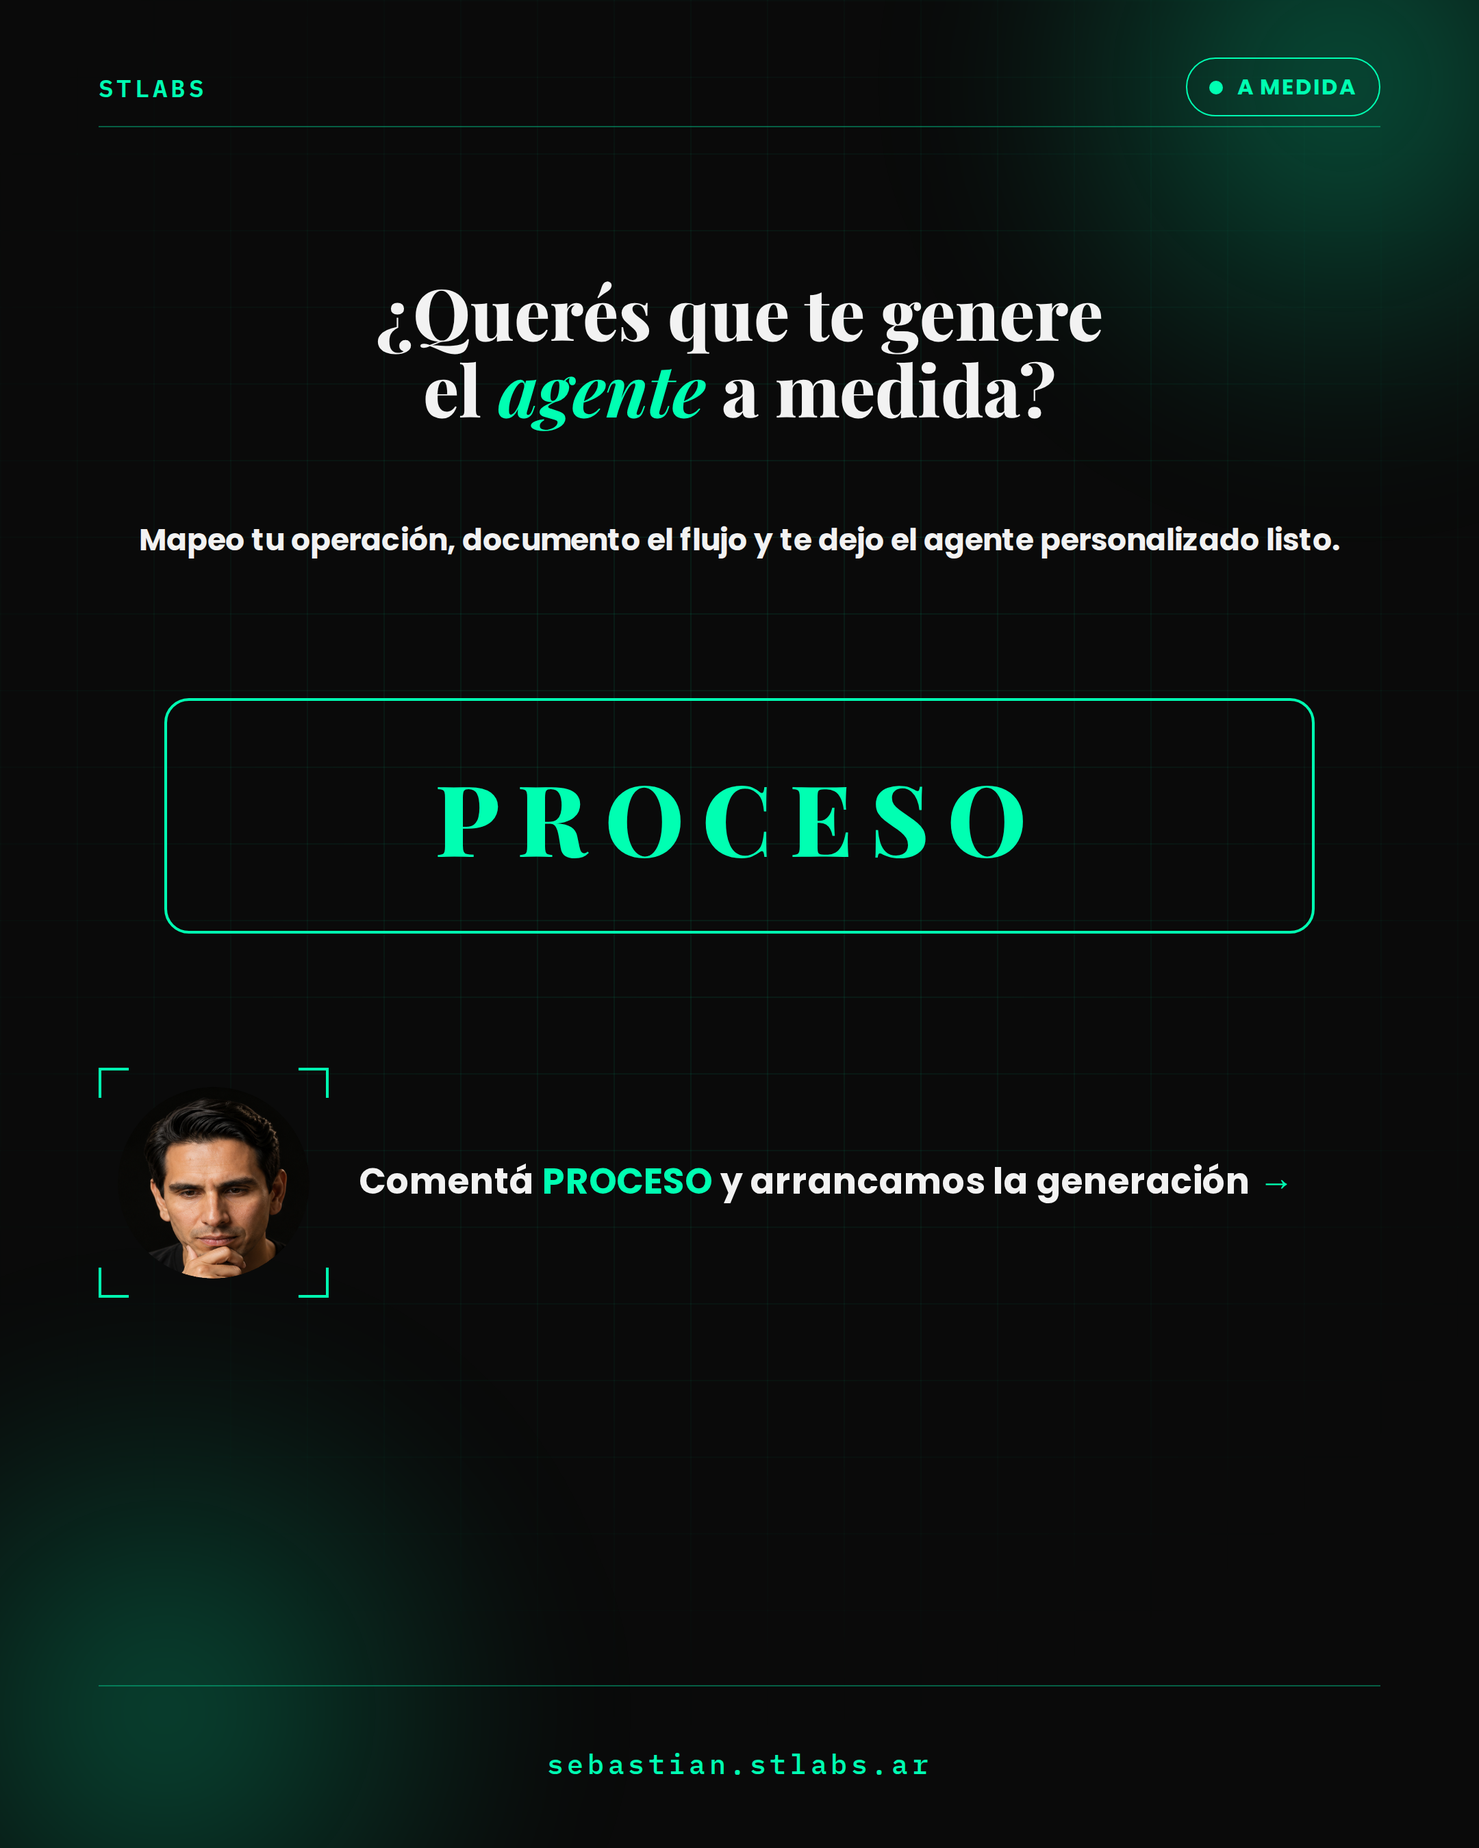
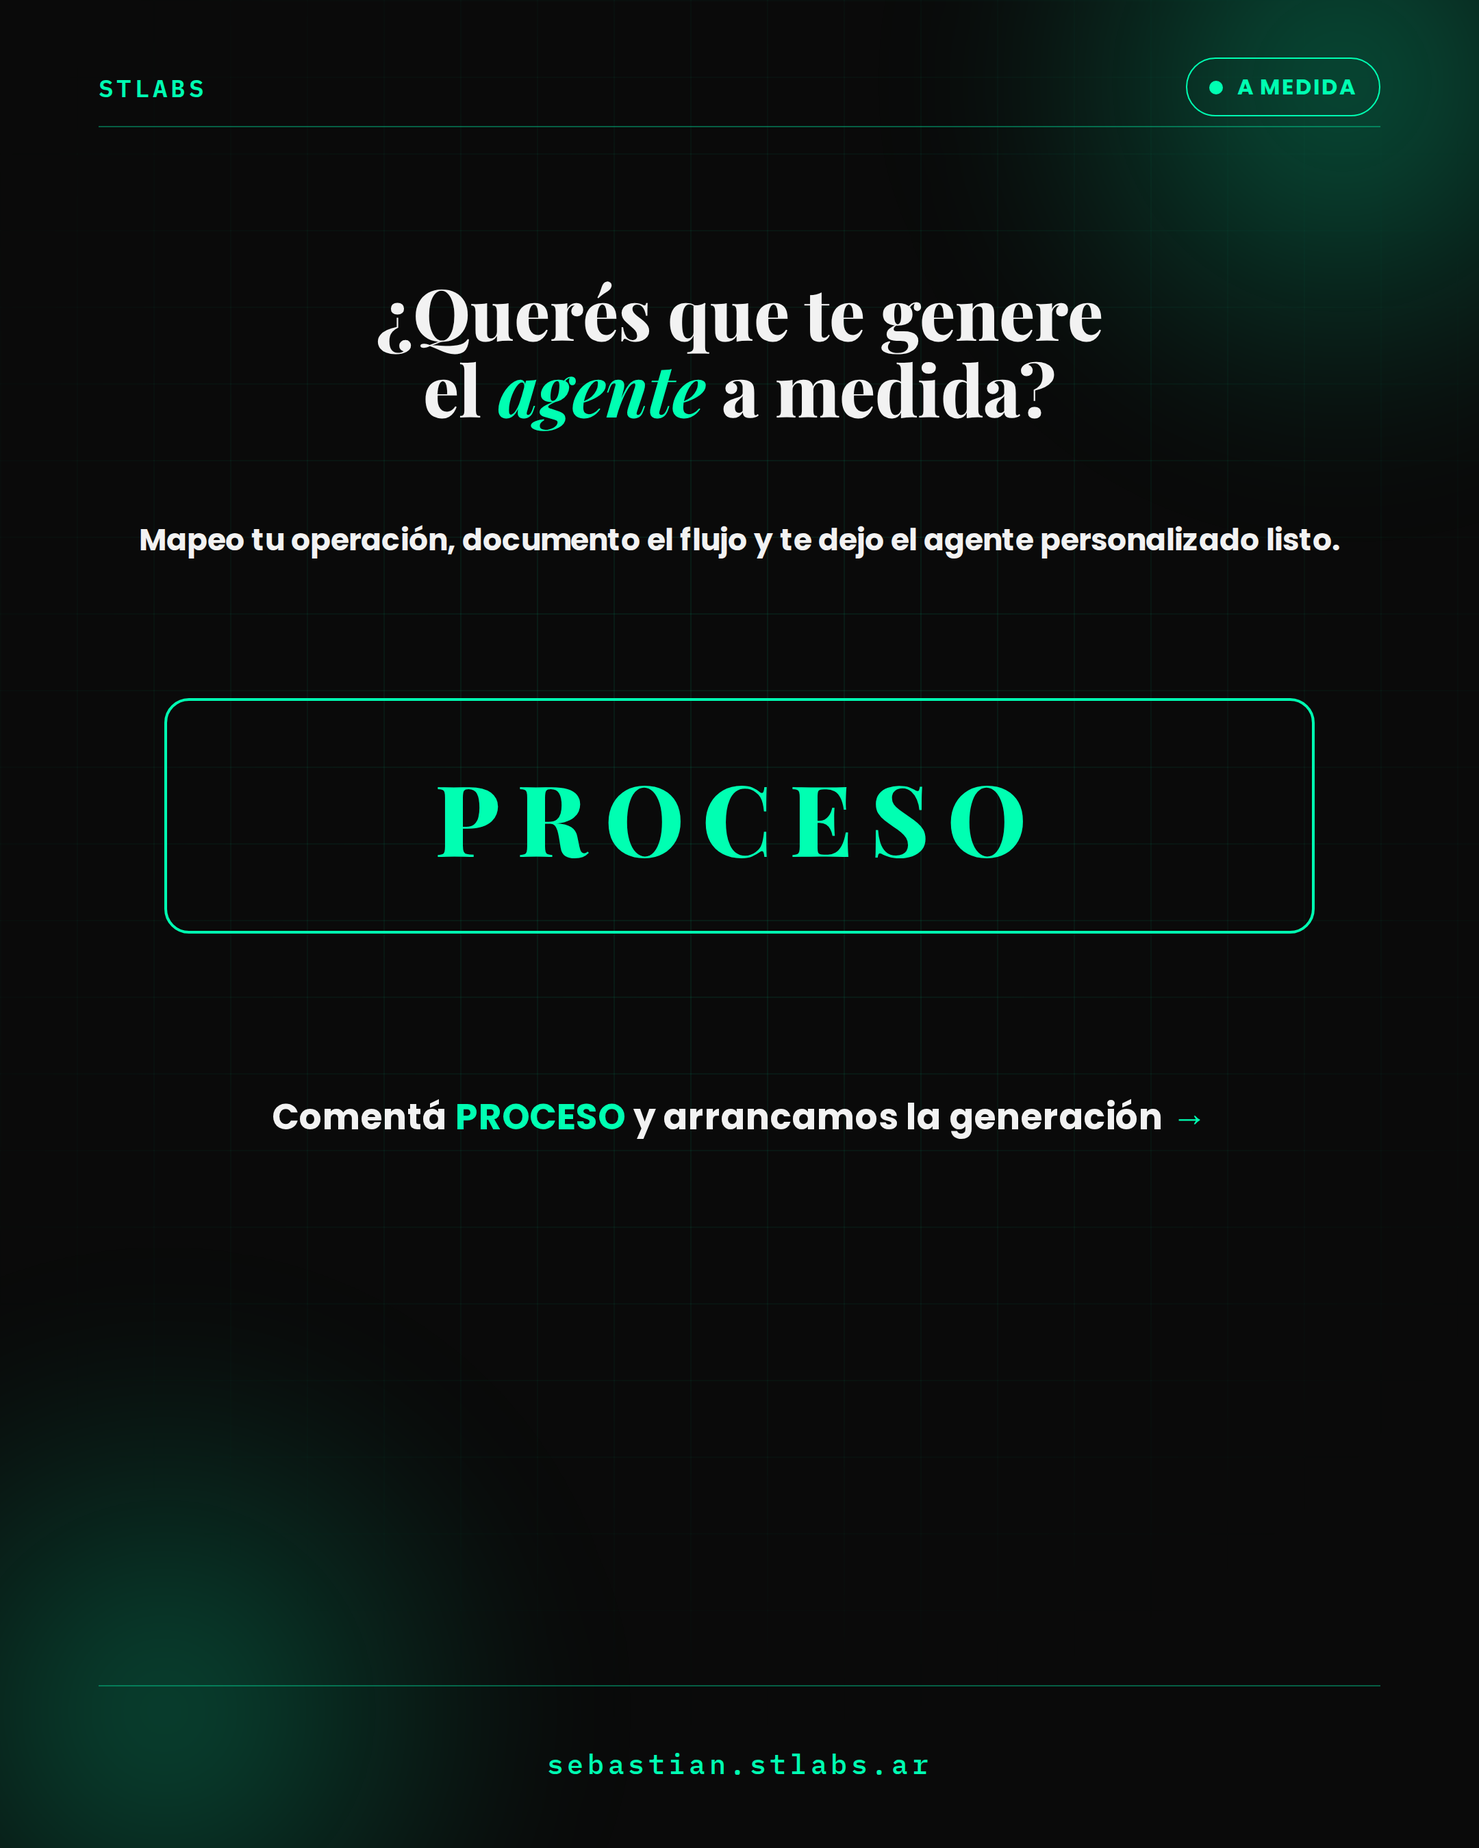
Quitar la foto de Sebastián en la última slide
El cierre queda solo con el CTA centrado: Comentá PROCESO.

Changed region(s): [[0.0931, 0.5911, 0.8375, 0.7156]]

diff --git a/resultados/2026-08-18-nueva-forma-agentes/carrusel.html b/resultados/2026-08-18-nueva-forma-agentes/carrusel.html
@@ -229,14 +229,13 @@ html, body { background:#000; }
   letter-spacing:.18em; color:#00FFB2;
 }
 .bottom-row {
-  position:absolute; left:72px; right:72px; top:780px; z-index:4;
-  display:flex; align-items:center; gap:22px;
+  position:absolute; left:72px; right:72px; top:800px; z-index:4;
+  display:flex; align-items:center; justify-content:center;
 }
-.avatar-wrap { position:relative; width:168px; height:168px; flex-shrink:0; }
-.avatar-wrap img { width:140px; height:140px; border-radius:50%; object-fit:cover; position:absolute; top:14px; left:14px; }
 .send {
   font-family:'Poppins',sans-serif; font-weight:700; font-size:26px; color:#F2F2F2; line-height:1.3;
+  text-align:center;
 }
 .send em { font-style:normal; color:#00FFB2; }
 </style></head>
-<body><div class="sheet"><section class="slide" data-id="01"><div class="tex"></div><div class="glow glow-tr"></div><div class="glow glow-bl"></div><div class="hline top"></div><div class="brand">STLabs</div><div class="kicker">01 / 05</div><div class="pill"><i></i>A medida</div><div class="firma">sebastian.stlabs.ar</div><div class="hero"></div><div class="hero-fade"></div><h1 class="display"><em>Así se genera</em><br>un agente<br><em>a medida.</em></h1><div class="clip dude"><div class="corners"><span class="tl"></span><span class="tr"></span><span class="bl"></span><span class="br"></span></div><img src="file:///workspace/builds/2026-08-18-nueva-forma-agentes/assets/pixel-dude.png" alt=""></div><div class="clip cf"><img class="claude" src="file:///workspace/builds/2026-08-18-nueva-forma-agentes/assets/claude.png" width="96" height="96" alt="" style="width:96px;height:96px;object-fit:contain;"></div><div class="cta-side">primero el proceso →</div></section><section class="slide" data-id="02"><div class="tex"></div><div class="glow glow-tr"></div><div class="glow glow-bl"></div><div class="hline top"></div><div class="hline bot"></div><div class="brand">STLabs</div><div class="plus">+</div><div class="kicker">01 / 05 — El proceso</div><div class="firma">sebastian.stlabs.ar</div><h1 class="h2">Los <em>3</em> pasos</h1><p class="sub">para generar un agente que arme tu operación.</p><div class="cards"><div class="card"><img src="file:///workspace/builds/2026-08-18-nueva-forma-agentes/assets/pixel-wrench.png" alt=""><div class="div"></div><div><h3>Mapear la operación</h3><p>Sacamos de tu cabeza cada paso, dueño y excepción.</p></div></div><div class="card"><img src="file:///workspace/builds/2026-08-18-nueva-forma-agentes/assets/pixel-cost.png" alt=""><div class="div"></div><div><h3>Documentar el flujo</h3><p>Queda escrito, claro y delegable. Sin improvisar.</p></div></div><div class="card"><img src="file:///workspace/builds/2026-08-18-nueva-forma-agentes/assets/pixel-bell.png" alt=""><div class="div"></div><div><h3>Generar el agente</h3><p>Lo armamos sobre ESE proceso, no sobre uno genérico.</p></div></div></div><div class="cta-side">y casi todos se saltean el primero →</div></section><section class="slide" data-id="03"><div class="tex"></div><div class="glow glow-tr"></div><div class="glow glow-bl"></div><div class="hline top"></div><div class="hline bot"></div><div class="brand">STLabs</div><div class="plus">+</div><div class="kicker">02 / 05 — Lo que se saltea</div><div class="firma">sebastian.stlabs.ar</div><h1 class="h2">Lo que casi<br><em>nadie</em> hace</h1><p class="sub">arrancan el agente sin mapa… y después <b style="color:#00FFB2">no escala.</b></p><div class="bubble">Poné un agente y que resuelva. El proceso lo vemos después.</div><div class="tag80"><i></i>9 de 10</div><div class="metric"><div class="lab">Primera sesión de mapeo · 1 operación</div><div class="num">12<span>pasos</span></div><div class="foot">y de ese mapa nace el agente</div></div><div class="cta-side">el método correcto es al revés →</div></section><section class="slide" data-id="04"><div class="tex"></div><div class="glow glow-tr"></div><div class="glow glow-bl"></div><div class="hline top"></div><div class="hline bot"></div><div class="brand">STLabs</div><div class="plus">+</div><div class="kicker">03 / 05 — El método</div><div class="firma">sebastian.stlabs.ar</div><h1 class="h2">El <em>método</em></h1><p class="sub">Primero el mapa. Después se genera el agente.</p><div class="eq"><div class="eq-item"><div class="eq-box"><svg viewBox="0 0 64 64" width="88" height="88"><rect x="8" y="8" width="48" height="14" rx="4" fill="none" stroke="#00FFB2" stroke-width="3"/><rect x="8" y="28" width="30" height="14" rx="4" fill="none" stroke="#00FFB2" stroke-width="3"/><rect x="8" y="48" width="40" height="14" rx="4" fill="none" stroke="#00FFB2" stroke-width="3"/><path d="M32 22v6M23 42v6" fill="none" stroke="#00FFB2" stroke-width="3"/></svg></div><strong>El mapa</strong><em>tu operación</em></div><div class="plus-lg">+</div><div class="eq-item"><div class="eq-box"><img class="claude" src="file:///workspace/builds/2026-08-18-nueva-forma-agentes/assets/claude.png" width="96" height="96" alt="" style="width:96px;height:96px;object-fit:contain;"></div><strong>Claude</strong><em>lo genera</em></div></div><div class="result">= tu agente a medida</div><div class="cta-side">así se ve cuando lo pedís →</div></section><section class="slide" data-id="05"><div class="tex"></div><div class="glow glow-tr"></div><div class="glow glow-bl"></div><div class="hline top"></div><div class="hline bot"></div><div class="brand">STLabs</div><div class="plus">+</div><div class="kicker">04 / 05 — En vivo</div><div class="firma">sebastian.stlabs.ar</div><h1 class="h2"><em>Así</em> se genera</h1><p class="sub">Pedís el proceso. El agente queda mapeado y <b style="color:#00FFB2">listo para ejecutar.</b></p><div class="phone"><div class="ph-head"><img class="claude" src="file:///workspace/builds/2026-08-18-nueva-forma-agentes/assets/claude.png" width="32" height="32" alt="" style="width:32px;height:32px;object-fit:contain;"><div class="nm">Claude</div><div class="hr">11:20</div></div><div class="ph-body"><div class="row me"><div><div class="bubble-u">Armá el agente con el seguimiento comercial.</div><div class="ts" style="text-align:right">11:20</div></div><img class="av" src="file:///workspace/builds/2026-08-18-nueva-forma-agentes/assets/sebas-avatar.png" alt=""></div><div class="row"><img class="claude" src="file:///workspace/builds/2026-08-18-nueva-forma-agentes/assets/claude.png" width="36" height="36" alt="" style="width:36px;height:36px;object-fit:contain;"><div><div class="bubble-a">Listo. 12 pasos documentados y el agente ya corre el flujo.</div><div class="ts">11:24</div></div></div></div></div><div class="cta-side">esto lo hacemos sobre tu operación →</div></section><section class="slide" data-id="06"><div class="tex"></div><div class="glow glow-tr"></div><div class="glow glow-bl"></div><div class="hline top"></div><div class="hline bot"></div><div class="brand">STLabs</div><div class="kicker"></div><div class="pill"><i></i>A medida</div><div class="firma">sebastian.stlabs.ar</div><h1 class="ask">¿Querés que te genere<br>el <em>agente</em> a medida?</h1><p class="pre">Mapeo tu operación, documento el flujo y te dejo el agente personalizado listo.</p><div class="kwbox"><span>PROCESO</span></div><div class="bottom-row"><div class="avatar-wrap"><div class="corners"><span class="tl"></span><span class="tr"></span><span class="bl"></span><span class="br"></span></div><img src="file:///workspace/builds/2026-08-18-nueva-forma-agentes/assets/sebas-avatar.png" alt=""></div><div class="send">Comentá <em>PROCESO</em> y arrancamos la generación <em>→</em></div></div></section></div></body></html>
+<body><div class="sheet"><section class="slide" data-id="01"><div class="tex"></div><div class="glow glow-tr"></div><div class="glow glow-bl"></div><div class="hline top"></div><div class="brand">STLabs</div><div class="kicker">01 / 05</div><div class="pill"><i></i>A medida</div><div class="firma">sebastian.stlabs.ar</div><div class="hero"></div><div class="hero-fade"></div><h1 class="display"><em>Así se genera</em><br>un agente<br><em>a medida.</em></h1><div class="clip dude"><div class="corners"><span class="tl"></span><span class="tr"></span><span class="bl"></span><span class="br"></span></div><img src="file:///workspace/builds/2026-08-18-nueva-forma-agentes/assets/pixel-dude.png" alt=""></div><div class="clip cf"><img class="claude" src="file:///workspace/builds/2026-08-18-nueva-forma-agentes/assets/claude.png" width="96" height="96" alt="" style="width:96px;height:96px;object-fit:contain;"></div><div class="cta-side">primero el proceso →</div></section><section class="slide" data-id="02"><div class="tex"></div><div class="glow glow-tr"></div><div class="glow glow-bl"></div><div class="hline top"></div><div class="hline bot"></div><div class="brand">STLabs</div><div class="plus">+</div><div class="kicker">01 / 05 — El proceso</div><div class="firma">sebastian.stlabs.ar</div><h1 class="h2">Los <em>3</em> pasos</h1><p class="sub">para generar un agente que arme tu operación.</p><div class="cards"><div class="card"><img src="file:///workspace/builds/2026-08-18-nueva-forma-agentes/assets/pixel-wrench.png" alt=""><div class="div"></div><div><h3>Mapear la operación</h3><p>Sacamos de tu cabeza cada paso, dueño y excepción.</p></div></div><div class="card"><img src="file:///workspace/builds/2026-08-18-nueva-forma-agentes/assets/pixel-cost.png" alt=""><div class="div"></div><div><h3>Documentar el flujo</h3><p>Queda escrito, claro y delegable. Sin improvisar.</p></div></div><div class="card"><img src="file:///workspace/builds/2026-08-18-nueva-forma-agentes/assets/pixel-bell.png" alt=""><div class="div"></div><div><h3>Generar el agente</h3><p>Lo armamos sobre ESE proceso, no sobre uno genérico.</p></div></div></div><div class="cta-side">y casi todos se saltean el primero →</div></section><section class="slide" data-id="03"><div class="tex"></div><div class="glow glow-tr"></div><div class="glow glow-bl"></div><div class="hline top"></div><div class="hline bot"></div><div class="brand">STLabs</div><div class="plus">+</div><div class="kicker">02 / 05 — Lo que se saltea</div><div class="firma">sebastian.stlabs.ar</div><h1 class="h2">Lo que casi<br><em>nadie</em> hace</h1><p class="sub">arrancan el agente sin mapa… y después <b style="color:#00FFB2">no escala.</b></p><div class="bubble">Poné un agente y que resuelva. El proceso lo vemos después.</div><div class="tag80"><i></i>9 de 10</div><div class="metric"><div class="lab">Primera sesión de mapeo · 1 operación</div><div class="num">12<span>pasos</span></div><div class="foot">y de ese mapa nace el agente</div></div><div class="cta-side">el método correcto es al revés →</div></section><section class="slide" data-id="04"><div class="tex"></div><div class="glow glow-tr"></div><div class="glow glow-bl"></div><div class="hline top"></div><div class="hline bot"></div><div class="brand">STLabs</div><div class="plus">+</div><div class="kicker">03 / 05 — El método</div><div class="firma">sebastian.stlabs.ar</div><h1 class="h2">El <em>método</em></h1><p class="sub">Primero el mapa. Después se genera el agente.</p><div class="eq"><div class="eq-item"><div class="eq-box"><svg viewBox="0 0 64 64" width="88" height="88"><rect x="8" y="8" width="48" height="14" rx="4" fill="none" stroke="#00FFB2" stroke-width="3"/><rect x="8" y="28" width="30" height="14" rx="4" fill="none" stroke="#00FFB2" stroke-width="3"/><rect x="8" y="48" width="40" height="14" rx="4" fill="none" stroke="#00FFB2" stroke-width="3"/><path d="M32 22v6M23 42v6" fill="none" stroke="#00FFB2" stroke-width="3"/></svg></div><strong>El mapa</strong><em>tu operación</em></div><div class="plus-lg">+</div><div class="eq-item"><div class="eq-box"><img class="claude" src="file:///workspace/builds/2026-08-18-nueva-forma-agentes/assets/claude.png" width="96" height="96" alt="" style="width:96px;height:96px;object-fit:contain;"></div><strong>Claude</strong><em>lo genera</em></div></div><div class="result">= tu agente a medida</div><div class="cta-side">así se ve cuando lo pedís →</div></section><section class="slide" data-id="05"><div class="tex"></div><div class="glow glow-tr"></div><div class="glow glow-bl"></div><div class="hline top"></div><div class="hline bot"></div><div class="brand">STLabs</div><div class="plus">+</div><div class="kicker">04 / 05 — En vivo</div><div class="firma">sebastian.stlabs.ar</div><h1 class="h2"><em>Así</em> se genera</h1><p class="sub">Pedís el proceso. El agente queda mapeado y <b style="color:#00FFB2">listo para ejecutar.</b></p><div class="phone"><div class="ph-head"><img class="claude" src="file:///workspace/builds/2026-08-18-nueva-forma-agentes/assets/claude.png" width="32" height="32" alt="" style="width:32px;height:32px;object-fit:contain;"><div class="nm">Claude</div><div class="hr">11:20</div></div><div class="ph-body"><div class="row me"><div><div class="bubble-u">Armá el agente con el seguimiento comercial.</div><div class="ts" style="text-align:right">11:20</div></div><img class="av" src="file:///workspace/builds/2026-08-18-nueva-forma-agentes/assets/sebas-avatar.png" alt=""></div><div class="row"><img class="claude" src="file:///workspace/builds/2026-08-18-nueva-forma-agentes/assets/claude.png" width="36" height="36" alt="" style="width:36px;height:36px;object-fit:contain;"><div><div class="bubble-a">Listo. 12 pasos documentados y el agente ya corre el flujo.</div><div class="ts">11:24</div></div></div></div></div><div class="cta-side">esto lo hacemos sobre tu operación →</div></section><section class="slide" data-id="06"><div class="tex"></div><div class="glow glow-tr"></div><div class="glow glow-bl"></div><div class="hline top"></div><div class="hline bot"></div><div class="brand">STLabs</div><div class="kicker"></div><div class="pill"><i></i>A medida</div><div class="firma">sebastian.stlabs.ar</div><h1 class="ask">¿Querés que te genere<br>el <em>agente</em> a medida?</h1><p class="pre">Mapeo tu operación, documento el flujo y te dejo el agente personalizado listo.</p><div class="kwbox"><span>PROCESO</span></div><div class="bottom-row"><div class="send">Comentá <em>PROCESO</em> y arrancamos la generación <em>→</em></div></div></section></div></body></html>

diff --git a/builds/2026-08-18-nueva-forma-agentes/generate.py b/builds/2026-08-18-nueva-forma-agentes/generate.py
@@ -256,13 +256,12 @@ html, body {{ background:#000; }}
   letter-spacing:.18em; color:{G};
 }}
 .bottom-row {{
-  position:absolute; left:72px; right:72px; top:780px; z-index:4;
-  display:flex; align-items:center; gap:22px;
+  position:absolute; left:72px; right:72px; top:800px; z-index:4;
+  display:flex; align-items:center; justify-content:center;
 }}
-.avatar-wrap {{ position:relative; width:168px; height:168px; flex-shrink:0; }}
-.avatar-wrap img {{ width:140px; height:140px; border-radius:50%; object-fit:cover; position:absolute; top:14px; left:14px; }}
 .send {{
   font-family:'Poppins',sans-serif; font-weight:700; font-size:26px; color:{W}; line-height:1.3;
+  text-align:center;
 }}
 .send em {{ font-style:normal; color:{G}; }}
 """
@@ -390,15 +389,13 @@ def slide_05() -> str:
 
 
 def slide_06() -> str:
-    av = uri(A / "sebas-avatar.png")
     return (
         '<section class="slide" data-id="06">'
         + chrome("", pill="A medida", plus=False)
         + '<h1 class="ask">¿Querés que te genere<br>el <em>agente</em> a medida?</h1>'
         + '<p class="pre">Mapeo tu operación, documento el flujo y te dejo el agente personalizado listo.</p>'
         + '<div class="kwbox"><span>PROCESO</span></div>'
-        + f'<div class="bottom-row"><div class="avatar-wrap"><div class="corners"><span class="tl"></span><span class="tr"></span><span class="bl"></span><span class="br"></span></div><img src="{av}" alt=""></div>'
-        '<div class="send">Comentá <em>PROCESO</em> y arrancamos la generación <em>→</em></div></div>'
+        + '<div class="bottom-row"><div class="send">Comentá <em>PROCESO</em> y arrancamos la generación <em>→</em></div></div>'
         + "</section>"
     )
 

diff --git a/resultados/2026-08-18-nueva-forma-agentes/generate.py b/resultados/2026-08-18-nueva-forma-agentes/generate.py
@@ -256,13 +256,12 @@ html, body {{ background:#000; }}
   letter-spacing:.18em; color:{G};
 }}
 .bottom-row {{
-  position:absolute; left:72px; right:72px; top:780px; z-index:4;
-  display:flex; align-items:center; gap:22px;
+  position:absolute; left:72px; right:72px; top:800px; z-index:4;
+  display:flex; align-items:center; justify-content:center;
 }}
-.avatar-wrap {{ position:relative; width:168px; height:168px; flex-shrink:0; }}
-.avatar-wrap img {{ width:140px; height:140px; border-radius:50%; object-fit:cover; position:absolute; top:14px; left:14px; }}
 .send {{
   font-family:'Poppins',sans-serif; font-weight:700; font-size:26px; color:{W}; line-height:1.3;
+  text-align:center;
 }}
 .send em {{ font-style:normal; color:{G}; }}
 """
@@ -390,15 +389,13 @@ def slide_05() -> str:
 
 
 def slide_06() -> str:
-    av = uri(A / "sebas-avatar.png")
     return (
         '<section class="slide" data-id="06">'
         + chrome("", pill="A medida", plus=False)
         + '<h1 class="ask">¿Querés que te genere<br>el <em>agente</em> a medida?</h1>'
         + '<p class="pre">Mapeo tu operación, documento el flujo y te dejo el agente personalizado listo.</p>'
         + '<div class="kwbox"><span>PROCESO</span></div>'
-        + f'<div class="bottom-row"><div class="avatar-wrap"><div class="corners"><span class="tl"></span><span class="tr"></span><span class="bl"></span><span class="br"></span></div><img src="{av}" alt=""></div>'
-        '<div class="send">Comentá <em>PROCESO</em> y arrancamos la generación <em>→</em></div></div>'
+        + '<div class="bottom-row"><div class="send">Comentá <em>PROCESO</em> y arrancamos la generación <em>→</em></div></div>'
         + "</section>"
     )
 
